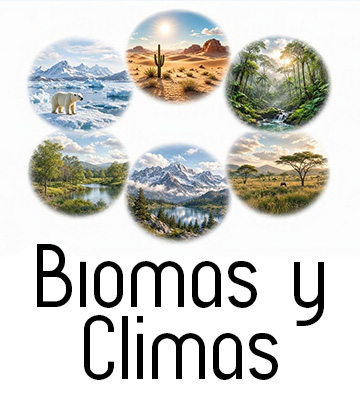
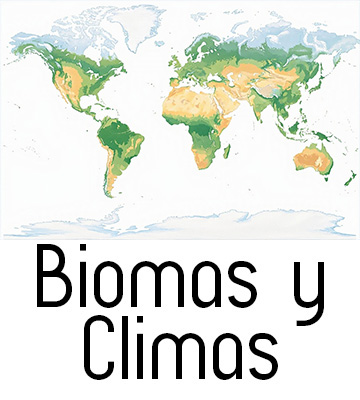
Add files via upload

diff --git a/script.js b/script.js
@@ -219,21 +219,21 @@ const artworks = {
     {
       img: "geo1.jpg",
       title: "Capitals of the  Americas - 24 Cards",
-      size: "INSTRUCTIONS:",
+      size: "HOW TO PLAY:",
       link: "index_3e.html",
         info: "Flip over the cards of the countries of the Americas and match them with the cards of their respective capitals.<br><br>Score:<br><br>🏅 Excelent: - 26 Tries  🥈 Normal: - 40 Tries  🥉 Insufficient: 41 + Tries"
     },
     {
       img: "geo2.jpg",
       title: "Capitals of Europe and Africa - 24 Cards",
-      size: "INSTRUCTIONS:",
+      size: "HOW TO PLAY:",
       link: "index_4e.html",
         info: "Flip over the cards of the countries of Europe and Africa and match them with the cards of their respective capitals.<br><br>Score:<br><br>🏅 Excelent: - 26 Tries  🥈 Normal: - 40 Tries  🥉 Insufficient: 41 + Tries"
     },
       {
       img: "geo3.jpg",
       title: "Capitals of  Asia and Oceania - 22 Cards",
-      size: "INSTRUCTIONS:",
+      size: "HOW TO PLAY:",
       link: "index_5e.html",
         info: "Flip over the cards of the countries of Asia and Oceania and match them with the cards of their respective capitals.<br><br>Score:<br><br>🏅 Excelent: - 23 Tries  🥈 Normal: - 35 Tries  🥉 Insufficient: 36 + Tries"
     },
@@ -241,7 +241,7 @@ const artworks = {
       {
       img: "geo11.jpg",
       title: "Capitals of Mexico #1 - 22 Cards",
-      size: "INSTRUCTIONS:",
+      size: "HOW TO PLAY:",
       link: "index_6e.html",
         info: "Flip over the cards of the states of Mexico and match them with the cards of their respective capitals.<br><br>Score:<br><br>🏅 Excelent: - 23 Tries  🥈 Normal: - 35 Tries  🥉 Insufficient: 36 + Tries"
     },
@@ -249,21 +249,28 @@ const artworks = {
       {
       img: "geo12.jpg",
       title: "Capitals of Mexico #2 - 20 Cards",
-      size: "INSTRUCTIONS:",
+      size: "HOW TO PLAY:",
       link: "index_7e.html",
         info: "Flip over the cards of the states of Mexico and match them with the cards of their respective capitals.<br><br>Score:<br><br>🏅 Excelent: - 20 Tries  🥈 Normal: - 30 Tries  🥉 Insufficient: 31 + Tries"
     },
       {
       img: "geo13.jpg",
       title: "Capitals of Mexico #3 - 20 Cards",
-      size: "INSTRUCTIONS:",
+      size: "HOW TO PLAY:",
       link: "index_8e.html",
         info: "Flip over the cards of the states of Mexico and match them with the cards of their respective capitals.<br><br>Score:<br><br>🏅 Excelent: - 20 Tries  🥈 Normal: - 30 Tries  🥉 Insufficient: 31 + Tries"
+    },
+    {
+      img: "geo20e.jpg",
+      title: "Natural Wonders of the World - 20 Cards",
+      size: "HOW TO PLAY:",
+      link: "index_10e.html",
+        info: "Flip over the cards of the Natural Wonders of the World and match them with the cards of their respective names.<br><br>Score:<br><br>🏅 Excelent: -20 Tries 🥈 Normal: -30 Tries 🥉 Insufficient: 31 + Tries"
     },
       {
       img: "geo21.jpg",
       title: "Biomes and Climate - 16 Cards",
-      size: "INSTRUCTIONS:",
+      size: "HOW TO PLAY:",
       link: "index_9e.html",
         info: "Flip over the cards of the Biomes of the World and match them with the cards of their respective names.<br><br>Score:<br><br>🏅 Excelent: -14 Tries 🥈 Normal: -21 Tries 🥉 Insufficient: 22 + Tries"
     },
@@ -273,7 +280,7 @@ const artworks = {
     {
       img: "ana1.jpg",
       title: "Planets of the Solar System- 16 Cards",
-      size: "INSTRUCTIONS:",
+      size: "HOW TO PLAY:",
       link: "index_11e.html",
         info: "Flip over the cards of the Planets of the Solar System and match them with the cards of their respective names.<br><br>Score:<br><br>🏅 Excelent: -14 Tries  🥈 Normal: -21 Tries 🥉 Insufficient: 22 + Tries"
     },
@@ -281,37 +288,44 @@ const artworks = {
     {
       img: "anat3.jpg",
       title: " Quimical Elements - 22 Cards",
-      size: "INSTRUCTIONS:",
+      size: "HOW TO PLAY:",
       link: "index_13e.html",
         info: "Flip over the cards of the Quimical Elements and match them with the cards of their respective names.<br><br>Score:<br><br>🏅 Excelent: - 23 Tries  🥈 Normal: - 35 Tries  🥉 Insufficient: 36 + Tries"
     },
       {
       img: "ana4.jpg",
       title: "Organs of the Human Body - 18 Cards",
-      size: "INSTRUCTIONS:",
+      size: "HOW TO PLAY:",
       link: "index_12e.html",
         info: "Flip over the cards of the Organs of the Human Body and match them with the cards of their respective names.<br><br>Score:<br><br>🏅 Excelent: -17 Tries 🥈 Normal: -25 Tries 🥉 Insufficient: 26 + Tries"
     },
       {
       img: "ana2.jpg",
       title: "Animal Kingdom - 20 Cards",
-      size: "INSTRUCTIONS:",
+      size: "HOW TO PLAY:",
       link: "index_14e.html",
         info: "Flip over the cards of the Animal Kingdom species and match them with the cards of their respective names.<br><br>Score:<br><br>🏅 Excelent: - 20 Tries  🥈 Normal: - 30 Tries  🥉 Insufficient: 31 + Tries"
     },
       {
       img: "ana5.jpg",
       title: "Physical Quantities - 20 Cards",
-      size: "INSTRUCTIONS:",
+      size: "HOW TO PLAY:",
       link: "index_15e.html",
         info: "Flip over the cards of the Physical Quantities and match them with the cards of their respective names.<br><br>Score:<br><br>🏅 Excelent: - 20 Tries  🥈 Normal: - 30 Tries  🥉 Insufficient: 31 + Tries"
     },
        {
       img: "anat6.jpg",
       title: " Geometric Figures 3D - 20 Cards",
-      size: "INSTRUCTIONS:",
+      size: "HOW TO PLAY:",
       link: "index_16e.html",
         info: "Flip over the cards of the Geometric Figures  3D and match them with the cards of their respective names.<br><br>Score:<br><br>🏅 Excelent: - 20 Tries  🥈 Normal: - 30 Tries  🥉 Insufficient: 31 + Tries"
+    },
+    {
+      img: "ana7e.jpg",
+      title: " Wonders of the Universe - 20 Cards",
+      size: "HOW TO PLAY:",
+      link: "index_17e.html",
+        info: "Flip over the cards of the Wonders of the Universe and match them with the cards of their respective names.<br><br>Score:<br><br>🏅 Excelent: - 20 Tries  🥈 Normal: - 30 Tries  🥉 Insufficient: 31 + Tries"
     },
   ],
 
@@ -319,51 +333,58 @@ const artworks = {
     {
       img: "hum1.jpg",
       title: "Universal History - 20 Cards",
-      size: "INSTRUCTIONS:",
+      size: "HOW TO PLAY:",
       link: "index_21e.html",
         info: "Flip over the cards of the Universal History Figures and match them with the cards of their respective names.<br><br>Score:<br><br>🏅 Excelent: - 20 Tries  🥈 Normal: - 30 Tries  🥉 Insufficient: 31 + Tries"
     },
      {
       img: "hum4.jpg",
       title: "History of Mexico - 20 Cards",
-      size: "INSTRUCTIONS:",
+      size: "HOW TO PLAY:",
       link: "index_22e.html",
         info: "Flip over the cards of the History of Mexico Figures and match them with the cards of their respective names.<br><br>Score:<br><br>🏅 Excelent: - 20 Tries  🥈 Normal: - 30 Tries  🥉 Insufficient: 31 + Tries"
     },
       {
       img: "hum3.jpg",
       title: " Tecnological Advances - 16 Cards",
-      size: "INSTRUCTIONS:",
+      size: "HOW TO PLAY:",
       link: "index_23e.html",
         info: "Flip over the cards of the Tecnological Advances  and match them with the cards of their respective names.<br><br>Score:<br><br>🏅 Excelent: -14 Tries 🥈 Normal: -21 Tries 🥉 Insufficient: 22 + Tries"
     },
      {
       img: "hum2.jpg",
       title: " Historical Monuments  - 20 Cards",
-      size: "INSTRUCTIONS:",
+      size: "HOW TO PLAY:",
       link: "index_24e.html",
         info: "Flip over the cards of the Historical Monuments and match them with the cards of their respective names.<br><br>Score:<br><br>🏅 Excelent: - 20 Tries  🥈 Normal: - 30 Tries  🥉 Insufficient: 31 + Tries"
     },
 	{
       img: "hum5.jpg",
       title: "Fine Arts  - 16 Cards",
-      size: "INSTRUCTIONS:",
+      size: "HOW TO PLAY:",
       link: "index_25e.html",
         info: "Flip over the cards of the Fine Arts and match them with the cards of their respective names.<br><br>Score:<br><br>🏅 Excelent: -14 Tries-🥈 Normal: -21 Tries 🥉 Insufficient: 22 + Tries"
     },
 	{
       img: "hum6.jpg",
       title: "Traditional Costumes- 20 Cards",
-      size: "INSTRUCTIONS:",
+      size: "HOW TO PLAY:",
       link: "index_26e.html",
         info: "Flip over the cards of the Traditional Costumes and match them with the cards of their respective names.<br><br>Score:<br><br>🏅 Excelent: - 20 Tries  🥈 Normal: - 30 Tries  🥉 Insufficient: 31 + Tries"
     },
       {
       img: "hum7.jpg",
       title: " Musical Instruments- 20 Cards",
-      size: "INSTRUCTIONS:",
+      size: "HOW TO PLAY:",
       link: "index_27e.html",
         info: "Flip over the cards of the sounds of Musical Instruments and match them with the cards of their respective names.<br><br>Score:<br><br>🏅 Excelent: - 20 Tries  🥈 Normal: - 30 Tries  🥉 Insufficient: 31 + Tries"
+    },
+    {
+      img: "hum8e.jpg",
+      title: "Dishes of the World- 20 Cards",
+      size: "HOW TO PLAY:",
+      link: "index_28e.html",
+        info: "Flip over the cards of Dishes of the World and match them with the cards of their respective names.<br><br>Score:<br><br>🏅 Excelent: - 20 Tries  🥈 Normal: - 30 Tries  🥉 Insufficient: 31 + Tries"
     },
   ],
 };

diff --git a/index_17.html b/index_17.html
@@ -8,24 +8,7 @@
   <meta name="author" content="Guillermo Rayas Monroy">
     <link rel="stylesheet" href="style.css">
     <title>Maravillas del Universo</title>
-<style>
-.back {
-      --s: 15px; /* control the size*/
-  --c1: darkorange;
-  --c2: gold;
-  
-  --_g: 
-    #0000 calc(-650%/13) calc(50%/13),var(--c1) 0 calc(100%/13),
-    #0000 0 calc(150%/13),var(--c1) 0 calc(200%/13),
-    #0000 0 calc(250%/13),var(--c1) 0 calc(300%/13);
-  --_g0: repeating-linear-gradient( 45deg,var(--_g));
-  --_g1: repeating-linear-gradient(-45deg,var(--_g));
-  background:
-    var(--_g0),var(--_g0) var(--s) var(--s),
-    var(--_g1),var(--_g1) var(--s) var(--s) var(--c2);
-  background-size: calc(2*var(--s)) calc(2*var(--s));
-    }
-</style>
+
 </head>
 
 <body>
